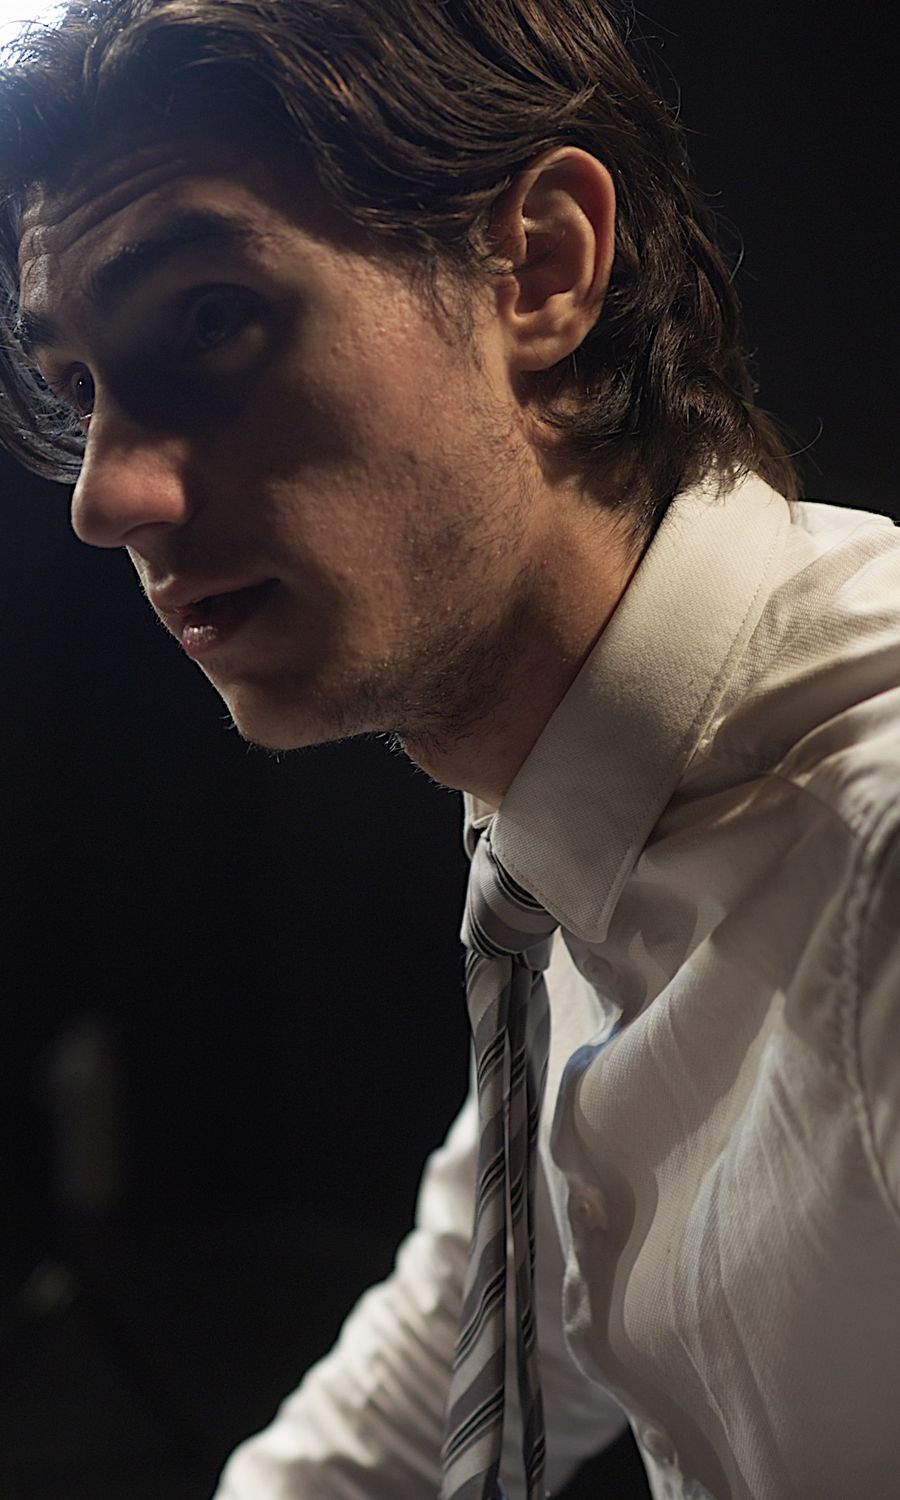
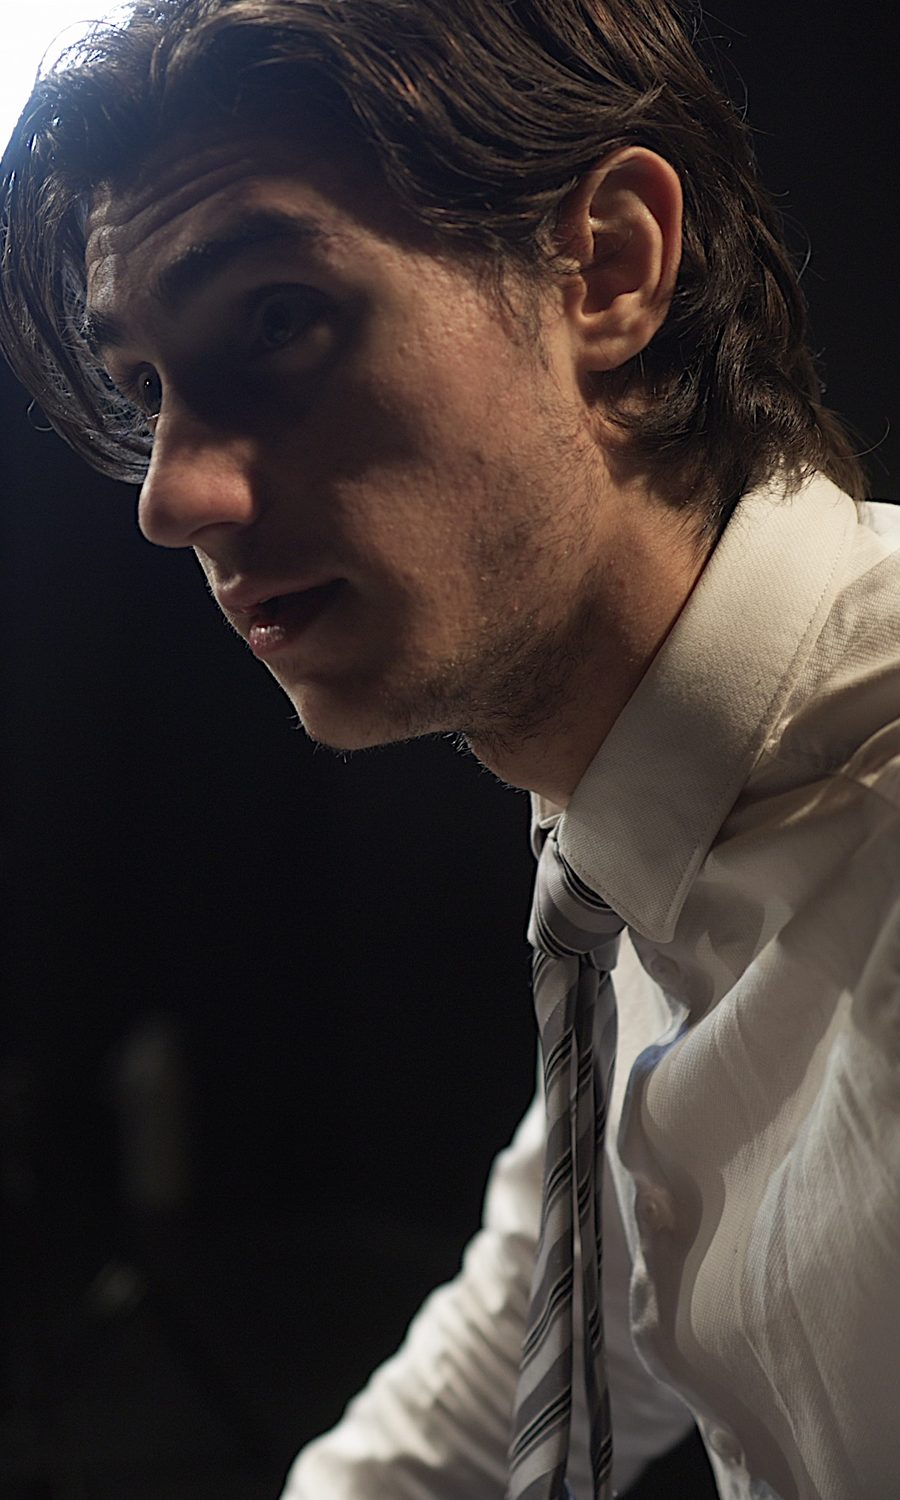
Accueil : flou plus bas, mise en page mobile (titre en haut, texte en bas, boutons réduits), photos recadrées et éclaircies

diff --git a/src/app/page.tsx b/src/app/page.tsx
@@ -94,28 +94,36 @@ export default function Accueil() {
       {/* ── Affiche ── */}
       <header className="relative flex min-h-[85svh] flex-col justify-end overflow-hidden">
         <HeroCarrousel diapos={DIAPOS_AFFICHE} />
-        <div className="relative mx-auto w-full max-w-5xl px-5 pb-14">
-          <p className="inline-block bg-rouge px-2 py-1 font-mono text-xs font-black uppercase tracking-[0.2em] text-white">
-            Théâtre &amp; cinéma · Avignon
-          </p>
-          <h1 className="mt-3 font-affiche text-[3.8rem] uppercase leading-[0.9] sm:text-8xl">
-            Le Jeu de <span className="text-rouge">l&apos;Acteur.</span>
-          </h1>
-          <p className="mt-4 font-accent text-2xl italic sm:text-3xl">
-            La formation où la scène et la caméra ne font qu&apos;un.
-          </p>
-          <p className="mt-4 max-w-xl text-lg text-secondaire">
-            Du théâtre classique aux techniques de cinéma (castings, cascades, tournages), une approche complète et
-            moderne du métier d&apos;acteur.
-          </p>
-          <div className="mt-7 flex flex-col gap-3 sm:flex-row">
-            <BoutonRouge href="#contact">Faire un cours d&apos;essai</BoutonRouge>
-            <Link
-              href="/cours-intensif"
-              className="inline-block rounded-md border border-foreground/40 px-6 py-4 text-center font-affiche text-xl uppercase tracking-wide"
-            >
-              Devenir acteur en 10 mois
-            </Link>
+        {/* Mobile : le titre reste en haut à gauche, la photo respire au milieu, le texte et les boutons descendent en bas.
+            Dès l'écran moyen : tout reste groupé en bas, comme avant. */}
+        <div className="relative mx-auto flex w-full max-w-5xl flex-1 flex-col justify-between px-5 pb-8 pt-20 md:block md:flex-none md:pb-14 md:pt-0">
+          <div>
+            <p className="inline-block bg-rouge px-2 py-1 font-mono text-xs font-black uppercase tracking-[0.2em] text-white">
+              Théâtre &amp; cinéma · Avignon
+            </p>
+            <h1 className="mt-3 font-affiche text-[3.8rem] uppercase leading-[0.9] sm:text-8xl">
+              Le Jeu de <span className="text-rouge">l&apos;Acteur.</span>
+            </h1>
+          </div>
+          <div>
+            <p className="mt-4 font-accent text-xl italic sm:text-3xl md:text-3xl">
+              La formation où la scène et la caméra ne font qu&apos;un.
+            </p>
+            <p className="mt-3 max-w-xl text-base text-secondaire md:mt-4 md:text-lg">
+              Du théâtre classique aux techniques de cinéma (castings, cascades, tournages), une approche complète et
+              moderne du métier d&apos;acteur.
+            </p>
+            <div className="mt-5 flex flex-col gap-2.5 sm:flex-row md:mt-7 md:gap-3">
+              <BoutonRouge href="#contact" petit>
+                Faire un cours d&apos;essai
+              </BoutonRouge>
+              <Link
+                href="/cours-intensif"
+                className="inline-block rounded-md border border-foreground/40 px-5 py-2.5 text-center font-affiche text-lg uppercase tracking-wide md:px-6 md:py-4 md:text-xl"
+              >
+                Devenir acteur en 10 mois
+              </Link>
+            </div>
           </div>
         </div>
       </header>

diff --git a/src/components/HeroCarrousel.tsx b/src/components/HeroCarrousel.tsx
@@ -5,6 +5,8 @@
 // - La 1re photo est chargée tout de suite (page rapide) ; les autres arrivent juste après, sans gêner l'ouverture.
 // - Dès que le visiteur touche un point ou balaie, le défilement automatique s'arrête (il choisit lui-même).
 // - Si l'appareil demande « réduire les animations », il n'y a pas de défilement automatique ni de fondu.
+// - Sur mobile, la photo (verticale, recadrée sur le visage) occupe les 80 % du bas de l'affiche : le visage tombe entre le
+//   titre (en haut) et le texte (en bas), et se fond vers le haut. Sur grand écran, elle remplit toute l'affiche.
 // - Le titre et les boutons restent dans la page (ce composant ne fait que le fond, le dégradé et les points).
 import { useCallback, useEffect, useRef, useState } from "react";
 
@@ -94,14 +96,16 @@ export default function HeroCarrousel({ diapos }: { diapos: DiapoHero[] }) {
               fetchPriority={i === 0 ? "high" : "auto"}
               decoding="async"
               style={{ objectPosition: `var(--pos) center`, ["--pos" as string]: `${d.position ?? 50}%` }}
-              className={`absolute inset-0 h-full w-full object-cover opacity-0 transition-opacity duration-1000 motion-reduce:transition-none ${
-                i === actuelle ? "!opacity-70" : ""
+              className={`absolute inset-x-0 bottom-0 top-[20%] h-[80%] w-full object-cover opacity-0 [-webkit-mask-image:linear-gradient(to_bottom,transparent,#000_22%)] [mask-image:linear-gradient(to_bottom,transparent,#000_22%)] md:inset-0 md:h-full md:[-webkit-mask-image:none] md:[mask-image:none] transition-opacity duration-1000 motion-reduce:transition-none ${
+                i === actuelle ? "!opacity-90" : ""
               }`}
             />
           </picture>
         );
       })}
-      <div className="absolute inset-0 bg-gradient-to-t from-background via-background/75 to-background/10" />
+      {/* Le flou ne monte plus haut : sombre seulement derrière le texte du bas, léger en haut pour le titre, la photo reste claire au milieu */}
+      <div className="absolute inset-0 bg-gradient-to-t from-background from-0% via-background/70 via-22% to-transparent to-52% md:via-25% md:to-60%" />
+      <div className="absolute inset-x-0 top-0 h-1/4 bg-gradient-to-b from-background/70 to-transparent" />
       <div className="absolute inset-x-0 bottom-3 z-20 flex justify-center gap-1" role="group" aria-label="Choisir une photo">
         {diapos.map((d, i) => (
           <button

diff --git a/src/components/Scene.tsx b/src/components/Scene.tsx
@@ -21,9 +21,11 @@ export function Titre({ children, rouge }: { children: React.ReactNode; rouge?: 
   );
 }
 
-export function BoutonRouge({ href, children }: { href: string; children: React.ReactNode }) {
-  const classe =
-    "inline-block rounded-md bg-rouge px-6 py-4 text-center font-affiche text-xl uppercase tracking-wide text-white";
+export function BoutonRouge({ href, children, petit = false }: { href: string; children: React.ReactNode; petit?: boolean }) {
+  // petit : plus discret sur mobile (affiche d'accueil, 21/11/2026) ; taille normale dès l'écran moyen
+  const classe = `inline-block rounded-md bg-rouge text-center font-affiche uppercase tracking-wide text-white ${
+    petit ? "px-5 py-2.5 text-lg md:px-6 md:py-4 md:text-xl" : "px-6 py-4 text-xl"
+  }`;
   return href.startsWith("/") && !href.startsWith("//") ? (
     <Link href={href} className={classe}>
       {children} →
